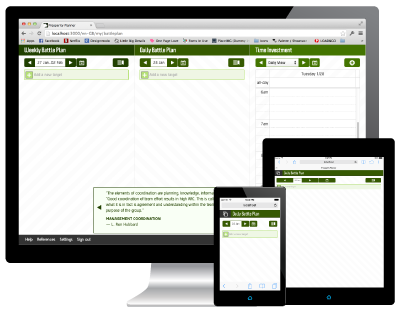
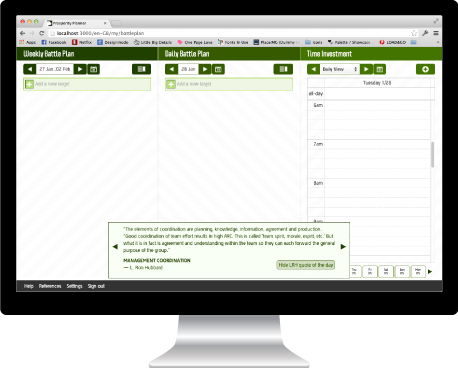
restructuring website, updating styles

diff --git a/app/assets/stylesheets/styles.sass b/app/assets/stylesheets/styles.sass
@@ -12,18 +12,31 @@ $dark-red: #5B103B
 $bg-color: #efefed
 $twitter-blue: #2BA9E1
 
+$light: 'HelveticaNeueW01-45Ligh'
+$roman: 'HelveticaNeueW01-55Roma'
+$medium: 'HelveticaNeueW01-65Medi'
+$bold: 'HelveticaNeueW01-75Bold'
+$mediumCondensed: 'HelveticaNeueW01-67MdCn 692710'
+$boldCondensed: 'HelveticaNeueW01-77BdCn 692722'
+$heavyCondensed: 'HelveticaNeueW01-87HvCn 692734'
+
+
 html
   background-color: $bg-color
 
 body
-  padding-top: 20px
   background-color: transparent
-  font-family: "Ubuntu"
+  font-family: $roman
+  background: black image-url('earth.jpg') no-repeat 50% top
+  background-attachment: fixed
+  &.alpha, &.beta, &.gamma
+    background-image: none
 
 
 =colorful-links($dark-color, $light-color)
-  color: $dark-color
-  border-bottom: 1px solid $light-color
+  color: white
+  background-color: rgba(0,0,0,.75)
+  border-bottom: 3px solid $light-color
   text-decoration: none
   +transition(all 50ms linear)
   &:hover, &:active, &:focus
@@ -31,6 +44,8 @@ body
     color: white
     border-bottom-width: 3px
 
+a.black
+  +colorful-links(#333, #818181)  
 a.blue
   +colorful-links($dark-blue, $light-blue)  
 a.red
@@ -47,107 +62,85 @@ a.disabled
 
 
 h1, h2, h3, h4, h5, h6
-  font-family: "Lato"
+  // font-family: "Lato"
+  font-family: $bold
+  // font-weight: "700"
 h1, h2, h3
-  font-weight: 200
-header
-  margin-bottom: 17px
+  // font-weight: 200
+
+
+
+header#main-nav
+  position: fixed
+  top: 0px
+  right: 20px
+  z-index: 200
   nav#logo a
     background: transparent image-url('logo.png') no-repeat left 50%
     background-size: auto 50px
     height: 50px
     color: transparent
-    display: block
+    // display: block
+    display: none
+    float: left
+    width: 167px
 
   nav#links
-    position: relative
-    margin: 11px 0 0
-    text-align: right
+    float: right
     font-size: 1.1em
     a
-      padding: 0 2px
-      font-weight: 200
+      padding: 10px 5px 5px
       margin-left: 5px
-      display: inline-block
+      font-weight: 200
+      display: block
+      float: left
+      font-family: $mediumCondensed
+      
       &:hover, &:active, &:focus
         border-bottom-width: 5px
 
+section.home-panel
+  padding-top: 50px
+  // background-size: auto 100%
+  .white-block
+    padding: 10px
+    background-color: rgba(255,255,255,.85)
+    margin: 0 0 5px
+  &#splash
+    text-align: center
+    padding-top: 180px
+    background-color: transparent
+    #splash-logo
+      width: 300px
+      max-width: 100%
+      margin: 0 0 5px
+    h2, p
+      margin: 0 auto 5px
+      line-height: 1.15em
+      color: #333
+    h2
+      max-width: 733px
+    p
+      max-width: 300px
 
-section#quote
-  background: black image-url('earth.jpg') no-repeat 100% top
-  background-size: cover
-  padding: 30px 0
-  h1
-    text-shadow: 2px 2px 3px #000
-    margin-top: 10px
-    max-width: 765px
-    color: white
-    line-height: 1.3em
-  p.sub-title
-    text-shadow: 1px 1px 2px #000
-    color: #ccc
-
-section#about-pp
-  margin: 30px 0 60px
-  &.show-page
-    margin: 0 -15px 20px
-  img#pp-example
-    width: 100%
-    padding-top: 23px
+  &#about-pp
+    background: image-url('arrows.png') no-repeat left bottom
+    padding-top: 140px
+    body.alpha &
+      background-image: image-url('arrows.png'), image-url('earth.jpg')
+      background-position: left bottom, 50% top
+    img#pp-example
+      width: 100%
+    img#device-icons
+      float: left
+      clear: left
+  &#about-us
+    background-color: rgba($light-green, .5)
+  &#blog
+    display: none
 
 section#feeds
   margin-top: 30px
-
-#blog-list, #tweets
-  padding: 10px
-  margin-bottom: 20px
-  h3.header
-    width: auto
-    padding: 0 5px 5px 40px
-    border: none
-    font-weight: 400
-    margin: -24px 0 5px -5px
-    float: left
-    background: #EFEFED url(/assets/bubbles.png) no-repeat 5px -35px
-    background-size: 30px auto
-    color: #5b103b
-  p
-    clear: both
-
-#blog-list
-  border: 1px solid $dark-red
-  h3.header
-    color: $dark-red
-  .blog-post
-    clear: both
-    padding: 10px 10px 10px 70px
-    margin-bottom: 5px
-    background-color: white
-    +clearfix
-    position: relative
-    div.photo
-      background-image: image-url('author/mikel.jpg')
-      width: 50px
-      height: 62px
-      background-size: 50px
-      position: absolute
-      left: 10px
-    div.info
-      float: left
-    p
-      margin: 0
-      font-size: .9em
-      &.date
-        color: #818181
-    h4 
-      font-weight: 400
-      margin: 1px 0 5px
-
-#tweets
-  border: 1px solid $twitter-blue
-  h3.header
-    color: $twitter-blue
-    background-position: 5px 3px
 
 
 
